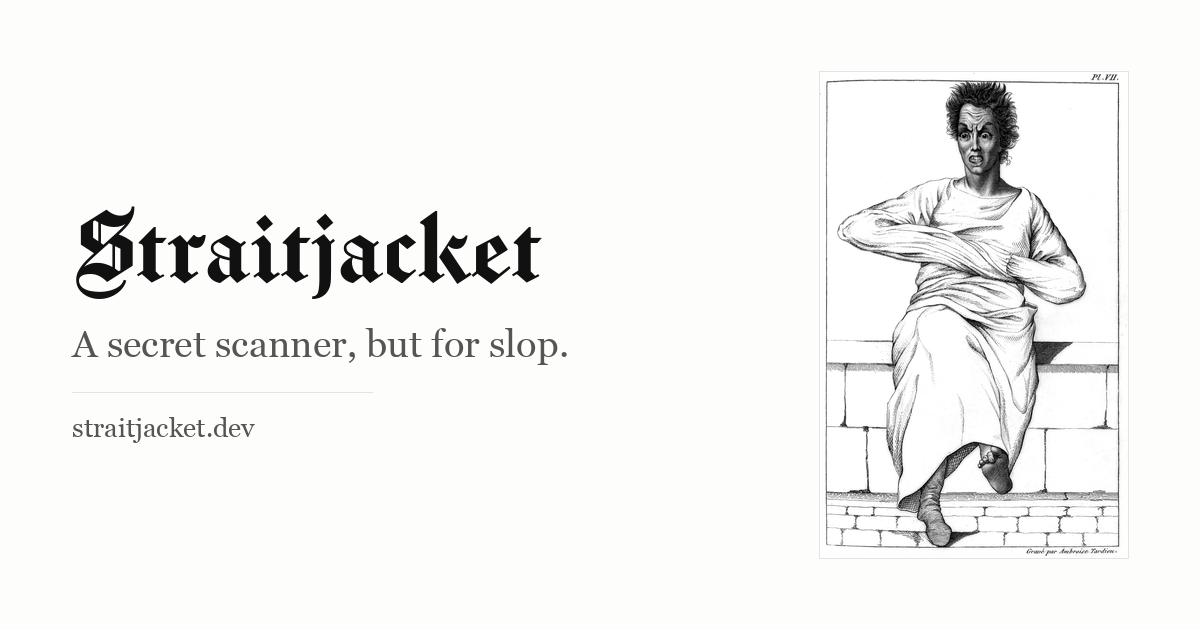
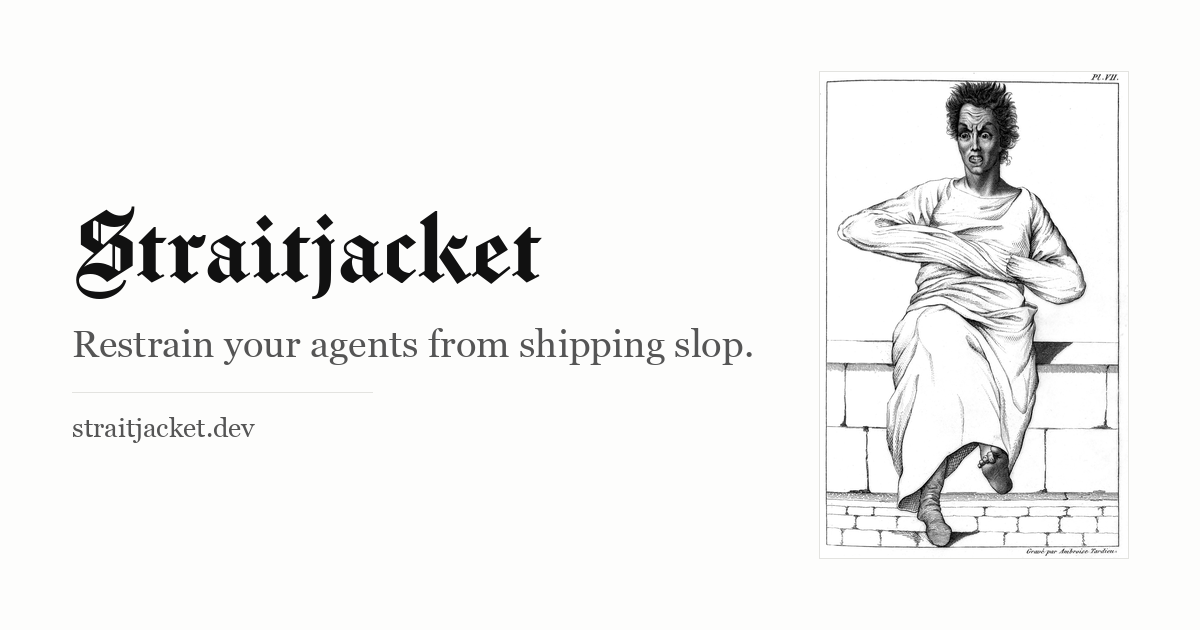
site: say what it does, and shorten the way in
The landing opened with a definition -- "Straitjacket is a fast,
deterministic scanner" -- and put its best line last. It opens with a
promise now, in the registry so the card and the meta description say
it too: restrain your agents from shipping slop. Not "from producing":
there is no hook, nothing sits in the generation loop, and what the
tool does is stop things on the way out. Not "slop code" either, since
half the rules read prose.

The rules table is three lines rather than six, and the six were wrong
anyway -- there are ten. Emoji, inline SVG, oversized files, with the
seven others named and linked rather than listed.

And the page said every rule is on at the first run, which is false:
no-comments is off by default. It said so in two places, one of them
older than this change. The reference page had it right all along.

"Yuck!" is gone from all four places it appeared.

The way in is https://straitjacket.dev/install now, half the length of
the raw.githubusercontent URL and on a domain a reader has already
decided to trust. The build copies install.sh into the site, so the
served copy cannot drift from the canonical one.

The installer itself:

  - STRAITJACKET_VERSION=0.1.3 works, not just v0.1.3. The plain number
    asked for an asset that was never published under that name.
  - It runs the binary before reporting success, and reports the version
    the binary gives rather than the tag it asked for. An archive for the
[…]

Changed region(s): [[0.0617, 0.5127, 0.6167, 0.573]]

diff --git a/site/content/index.md b/site/content/index.md
@@ -1,46 +1,28 @@
 <!-- straitjacket-allow-file:emoji — the sample scan output quotes an emoji finding, so the literal is what is being demonstrated -->
 
-<p class="cover"><img src="/cover.jpg" alt="Engraving of a patient restrained in a strait-waistcoat" width="220"><span class="credit">An 1838 engraving of a <a href="https://en.wikipedia.org/wiki/Straitjacket">strait-waistcoat</a>. <a href="https://wellcomecollection.org/works/dh2xhuph">Wellcome Collection</a>, <a href="https://creativecommons.org/publicdomain/mark/1.0/">Public Domain Mark</a>.</span></p>
-
 [Get started](/getting-started/) · [Read the docs](/guides/) · [Browse the rules](/reference/rules/) · [GitHub](https://github.com/PowderworksCode/straitjacket)
 
-Straitjacket is a fast, deterministic scanner that flags the weird code and
-text LLMs produce. It sweeps your files against a set of
-snobby-but-configurable rules and flags anything it finds — one static Rust
-binary, no runtime, so it drops into any repo's CI regardless of language or
-stack.
+Straitjacket is a fast, deterministic scanner that looks for the weird stuff
+LLMs produce. It's one static Rust binary and works with projects written in
+any programming language.
+
+<!--/hero-->
 
 ```sh
-curl -fsSL https://raw.githubusercontent.com/PowderworksCode/straitjacket/main/install.sh | sh
+curl -fsSL https://straitjacket.dev/install | sh
 ```
 
 Or build from source with `cargo install straitjacket`.
-
-## What it catches
-
-Everything is on by default — Straitjacket runs at its max, and you ratchet down
-with `--skip`. Each rule only looks at the file types where it makes sense.
-
-- **Emoji & AI tells** — emoji glyphs in code, comments, strings, and Markdown;
-  one of the most reliable giveaways that a machine wrote it.
-- **Hardcoded colors** — raw hex and CSS color functions that should be a theme
-  token, not sprinkled inline.
-- **Oversized files** — the 1,500-line monsters that pass review one screen at
-  a time and sneak up on you.
-- **Deep nesting** — logic indented past the depth budget, read straight off
-  the indentation, so it works in any language without a parser.
-- **Stray TODOs** — TODO, TBD, FIXME and WIP markers left behind in comments.
-- **Design drift** — inline SVG, literal font stacks, and ad-hoc transitions;
-  the details that quietly escape a design system.
-
-## One command. Every rule.
 
 Run `straitjacket` at the root of any project. It honors your `.gitignore`,
 prints one line per finding as `path:line:col [rule] matched`, and exits
 non-zero on any error — so CI fails the moment slop lands.
 
-No config to write, no toolchain to install. Suppress a false positive on one
-line with `straitjacket-allow`, or a whole file with `straitjacket-allow-file`.
+Nine of the ten rules are on at the first run, so the strictest Straitjacket
+gets by default takes no configuration to reach. What you disagree with, you
+turn off — `--skip` for a run, `straitjacket.toml` for good,
+`straitjacket-allow` on the one line you meant. The tenth, `no-comments`, is
+severe enough that you opt into it rather than out.
 
 ```text
 $ straitjacket
@@ -54,5 +36,5 @@ src/worker.ts:88:31  [deep-nesting]  nesting depth 9
 straitjacket: 5 error(s), 0 warning(s) across 128 file(s); 0 suppressed
 ```
 
-Encode your taste as deterministic checks and run them across everything an
-LLM writes — so you never have to go "Yuck!" by hand again.
+Encode your taste as deterministic checks, and run them across everything an
+LLM writes.

diff --git a/site/content/getting-started.md b/site/content/getting-started.md
@@ -13,7 +13,7 @@ finding — either by fixing it or by telling Straitjacket it's fine.
 Grab the prebuilt binary (Linux x86_64, macOS arm64/x86_64):
 
 ```sh
-curl -fsSL https://raw.githubusercontent.com/PowderworksCode/straitjacket/main/install.sh | sh
+curl -fsSL https://straitjacket.dev/install | sh
 ```
 
 It verifies the download against the release checksums and installs to
@@ -36,8 +36,8 @@ straitjacket
 ```
 
 With no arguments, Straitjacket scans the current directory, honoring your
-`.gitignore`. Every rule is on by default — it runs at its max and you ratchet
-down later.
+`.gitignore`. Nine of the ten rules are on by default — it runs near its max
+and you ratchet down later. The tenth, `no-comments`, is a mode you opt into.
 
 If everything is clean you'll see:
 

diff --git a/README.md b/README.md
@@ -17,7 +17,7 @@ Full documentation lives at **[straitjacket.dev](https://straitjacket.dev)**.
 
 ```sh
 # quick start (Linux x86_64/aarch64, macOS arm64/x86_64):
-curl -LsSf https://raw.githubusercontent.com/PowderworksCode/straitjacket/main/install.sh | sh
+curl -fsSL https://straitjacket.dev/install | sh
 straitjacket
 ```
 
@@ -44,7 +44,7 @@ could use it and tell me what other annoying things LLMs tend to do.
 
 Straitjacket has become an exercise in me encoding as much of my personal tastes
 as I can into deterministic checkers I can run across LLM output, hopefully
-saving me the trouble of having to go "Yuck!" myself.
+saving me the trouble of catching each one myself.
 
 ## Installing
 

diff --git a/site/content/project/contributing.md b/site/content/project/contributing.md
@@ -4,7 +4,7 @@ description: Report a pattern Straitjacket should catch, or a false positive it 
 order: 2
 ---
 
-LLMs invent new tells constantly, and everyone's "Yuck!" is a little different. If
+LLMs invent new tells constantly, and everyone draws the line somewhere else. If
 you've spotted a pattern Straitjacket should catch — or a false positive it
 shouldn't! — [**file an issue**](https://github.com/PowderworksCode/straitjacket/issues).
 Concrete examples help most. Three things especially wanted:

diff --git a/site/content/reference/cli.md b/site/content/reference/cli.md
@@ -133,7 +133,7 @@ Prebuilt binary — Linux `x86_64`/`aarch64` (static musl, so one build runs on
 any distribution regardless of glibc) and macOS `arm64`/`x86_64`:
 
 ```sh
-curl -fsSL https://raw.githubusercontent.com/PowderworksCode/straitjacket/main/install.sh | sh
+curl -fsSL https://straitjacket.dev/install | sh
 ```
 
 It verifies the download against the release `SHA256SUMS` and installs to

diff --git a/site/content/project/philosophy.md b/site/content/project/philosophy.md
@@ -38,4 +38,4 @@ other signs. Not trying to get too fancy with it.
 
 Straitjacket has become an exercise in me encoding as much of my personal tastes
 as I can into deterministic checkers I can run across LLM output, hopefully saving
-me the trouble of having to go "Yuck!" myself.
+me the trouble of catching each one myself.

diff --git a/site/content/guides/ci.md b/site/content/guides/ci.md
@@ -150,7 +150,7 @@ artifact from one run.
 There's no runtime dependency, so any CI works — install the binary and run it:
 
 ```sh
-curl -fsSL https://raw.githubusercontent.com/PowderworksCode/straitjacket/main/install.sh | sh
+curl -fsSL https://straitjacket.dev/install | sh
 straitjacket
 ```
 
